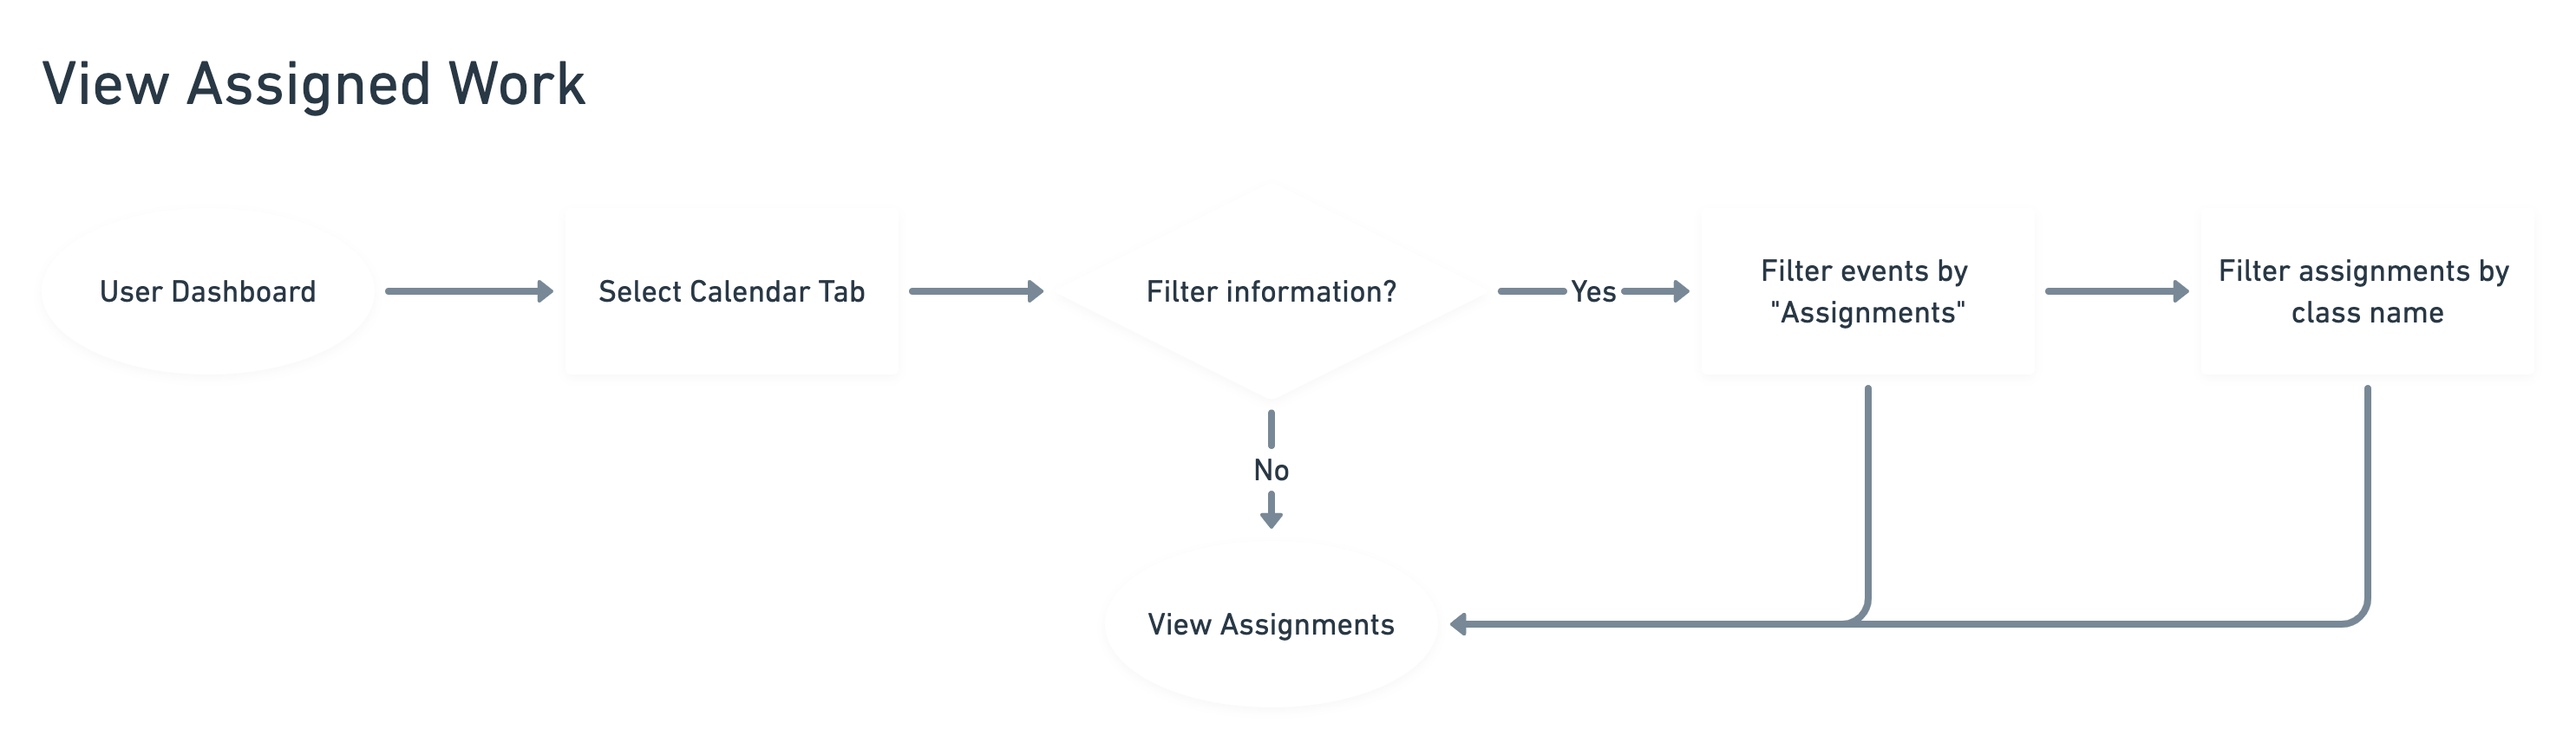
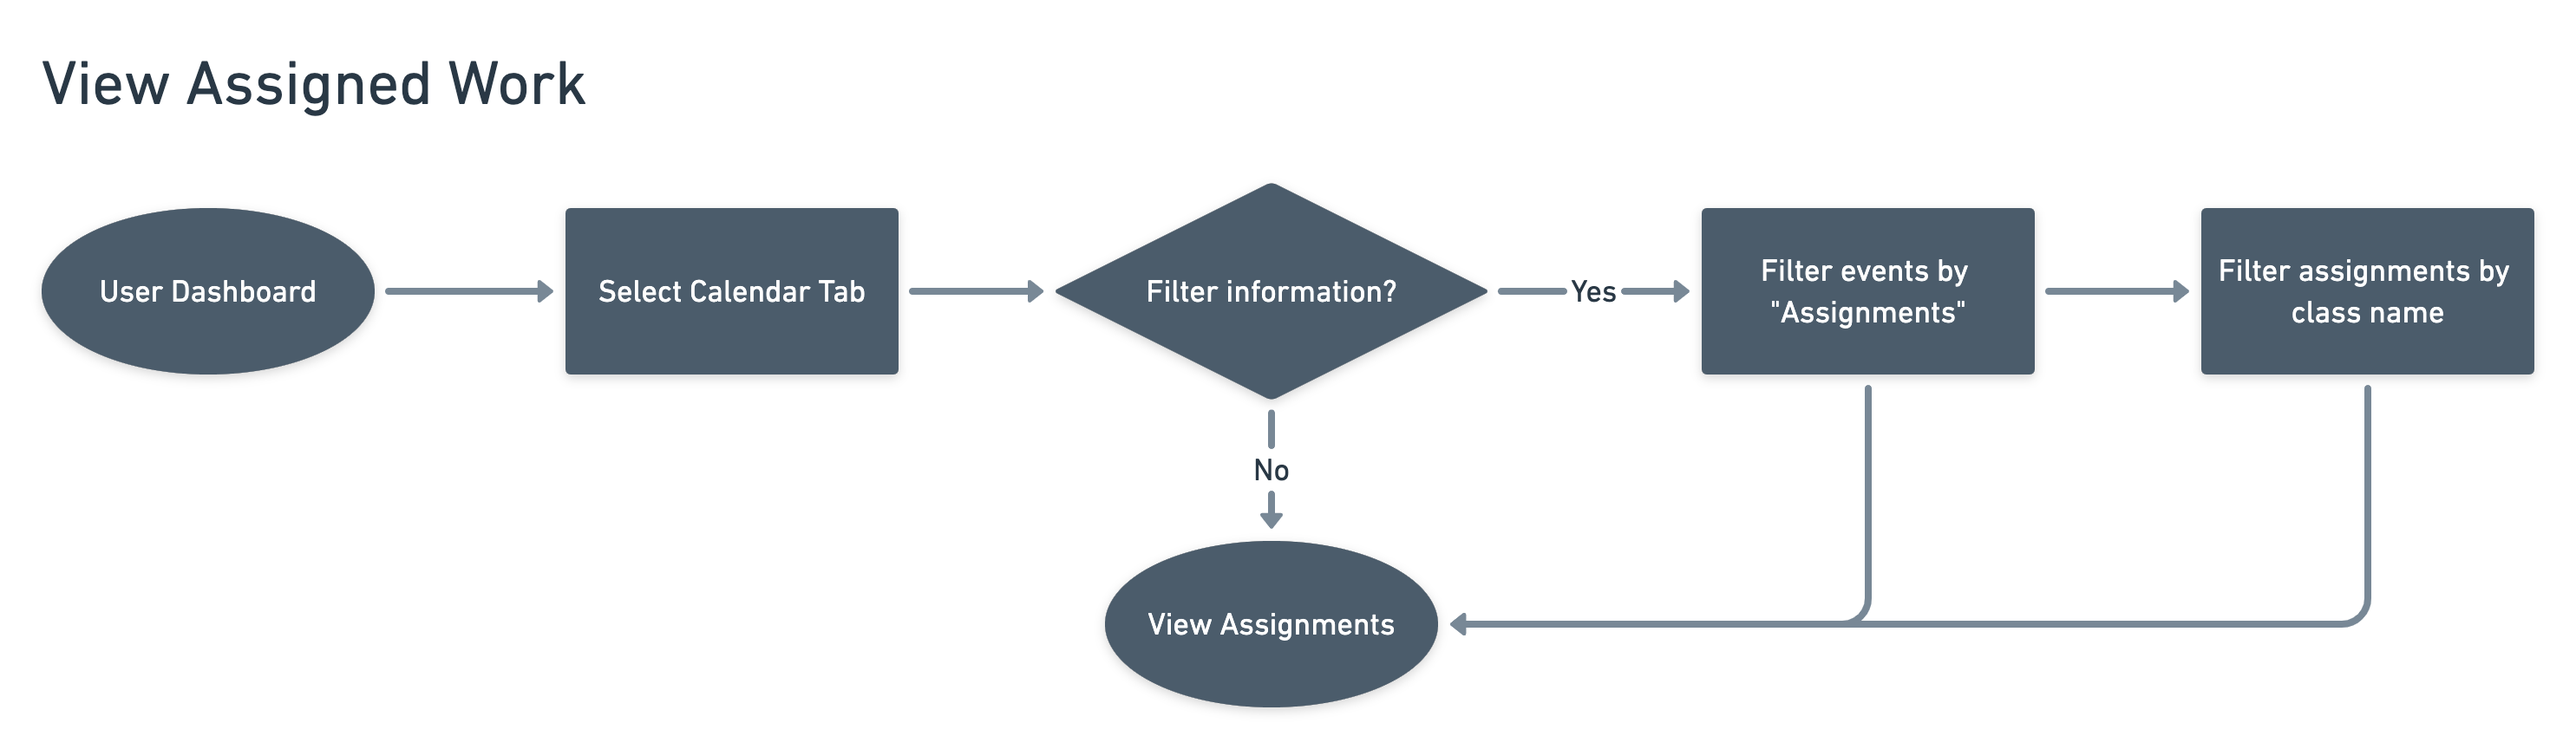
Fix Virt, some of NL CS images

diff --git a/Virtuoso.html b/Virtuoso.html
@@ -202,16 +202,17 @@
                   </tr>
                </table>
                <p>To help sort my stories, I focused on addressing the frustrations I found in my research. I wanted to create a structured learning environment where students and teachers could interact with each other. I took my high priority stories and mapped out the process behind them.</p>
-               <div class="dark-bg"><img src="../images/virtuoso/VAWflow.png" class="project-images" alt="User Flow for viewing assigned work"></div>
+               <img src="../images/virtuoso/VAWflow.png" class="project-images" alt="User Flow for viewing assigned work">
                <div>
                  <a class="content-btn" href="https://drive.google.com/file/d/1u072PD5H-FkkrTkmdskQWZtbiXFf8xEL/view?usp=sharing" target="_blank">
                     <p>View User Flows</p>
                  </a>
                </div>
             </div>
-            <div class="section-paragraph text-box">
+            <div class="section-paragraph">
+              <img src="../images/virtuoso/Wireframes Display.png" class="project-images-full" alt="Desktop and Mobile Wireframes">
+              <div class="text-box">
                <h5 class="paragraph-title">A first look</h5>
-               <div class="dark-bg"><img src="../images/virtuoso/Wireframes Display.png" class="project-images" alt="Desktop and Mobile Wireframes"></div>
                <ul class="cs-list">
                  <li>
                    <span class="list-icon"><i class="fas fa-circle"></i></span>
@@ -239,6 +240,7 @@
                     <p>View Mobile Wireframes</p>
                  </a>
                </div>
+             </div>
             </div>
          </section>
          <!-- BRANDING -->
@@ -247,8 +249,8 @@
          <section class="section-padding">
             <h2 class="text-box title-spacing">branding.</h2>
             <div class="section-paragraph text-box">
+              <img src="images/virtuoso/VirtLogoC.png" class="project-images" alt="Finished Virtuoso logo">
              <h5 class="paragraph-title">Logo</h5>
-             <div class="dark-bg"><img src="images/virtuoso/VirtLogoC.png" class="project-images" alt="Finished Virtuoso logo"></div>
              <ul class="cs-list">
                <li>
                  <span class="list-icon"><i class="fas fa-circle"></i></span>
@@ -268,9 +270,10 @@
                </li>
              </ul>
             </div>
-            <div class="section-paragraph text-box">
+            <div class="section-paragraph">
+              <img src="images/virtuoso/CAP CT Guide.png" class="project-images-full" alt="Color and Type branding">
+              <div class="section-paragraph text-box">
               <h5 class="paragraph-title">Color and Typography</h5>
-              <div class="dark-bg"><img src="images/virtuoso/CAP CT Guide.png" class="project-images" alt="Color and Type branding"></div>
               <ul class="cs-list">
                 <li>
                   <span class="list-icon"><i class="fas fa-circle"></i></span>
@@ -296,25 +299,28 @@
                    </a>
                 </div>
               </div>
+              </div>
             </div>
-            <div class="section-paragraph text-box">
-              <h5 class="paragraph-title">Mockups + Branding</h5>
-              <div class="dark-bg"><img src="images/virtuoso/Early Hi-Fi Mockups.png" class="project-images" alt="Early Hi-Fi Mockups"></div>
-              <ul class="cs-list">
-                <li>
-                  <span class="list-icon"><i class="fas fa-circle"></i></span>
-                  <p>This design is meant to look engaging and fun, as well as have intuitive organization that children and teachers could navigate with ease. I wanted to address the needs of all of my users, from young children to adults.</p>
-                </li>
-                <li>
-                  <span class="list-icon"><i class="fas fa-circle"></i></span>
-                  <p>Teachers are able to customize their classroom pages and cards to appeal to their students.</p>
-                </li>
-                <li>
-                  <span class="list-icon"><i class="fas fa-circle"></i></span>
-                  <p>I used color to attract users eyes to my most important processes, which I outlined my user stories.</p>
-                </li>
-              </ul>
-            </div>
+            <div class="section-paragraph">
+              <img src="images/virtuoso/Early Hi-Fi Mockups.png" class="project-images-full" alt="Early Hi-Fi Mockups">
+              <div class="section-paragraph text-box">
+                <h5 class="paragraph-title">Mockups + Branding</h5>
+                <ul class="cs-list">
+                  <li>
+                    <span class="list-icon"><i class="fas fa-circle"></i></span>
+                    <p>This design is meant to look engaging and fun, as well as have intuitive organization that children and teachers could navigate with ease. I wanted to address the needs of all of my users, from young children to adults.</p>
+                  </li>
+                  <li>
+                    <span class="list-icon"><i class="fas fa-circle"></i></span>
+                    <p>Teachers are able to customize their classroom pages and cards to appeal to their students.</p>
+                  </li>
+                  <li>
+                    <span class="list-icon"><i class="fas fa-circle"></i></span>
+                    <p>I used color to attract users eyes to my most important processes, which I outlined my user stories.</p>
+                  </li>
+                </ul>
+                </div>
+              </div>
          </section>
          <!-- TESTING -->
          <div id="testing" class="sticky-destination"></div>
@@ -380,7 +386,7 @@
          </section>
          <!-- FURTHER REFINEMENTS -->
          <section class="section-padding">
-           <h2 class="text-box title-spacing">further refinements.</h2>
+           <h2 class="text-box title-spacing">next steps.</h2>
             <div class="section-paragraph text-box">
                <p>I revisited this project and added microinteractions to give my design more life. To do this, I used Figma's "Smart Animate" function. There are a few advantages to including microinteractions in an app. Some apps use them to save time for their users, while others use them to show their branding. I decided to use microinteractions to communicate information and engage users.</p>
                <div class="dark-bg"><img src="images/virtuoso/Virtuoso_MI.gif" class="project-images" alt="GIF of microinteractions in Virtuoso"></div>
@@ -410,8 +416,7 @@
                <p>I feel confident that Virtuoso could open up possibilities for teachers and students who are currently participating in remote learning. I saw how important user testing is, as it gives me a way to view my project through fresh eyes.</p>
                <br>
                <p>In future projects, I will use user testing earlier in the process, starting with wireframes. This project has reminded me that the design process is not a linear journey, it includes circling back to different stages of research and testing throughout. I am happy with how this turned out and eager to start on my next project!</p>
-             </div>
-             <img src="images/virtuoso/VirtMbookMU.png" class="project-images" alt="Desktop Mockup of Virtuoso">
+           </div>
          </section>
       </main>
       <!-- FOOTER -->

diff --git a/Newlife.html b/Newlife.html
@@ -142,14 +142,16 @@
             </div>
             <div class="section-paragraph text-box">
                <h5 class="paragraph-title">Site Map</h5>
-               <div class="dark-bg"><img src="../images/Newlife/NL-sitemap.png" class="project-images" alt="Newlife Site Map - Home, Shop, About, Cart"></div>
+               <img src="../images/Newlife/NL-sitemap.png" class="project-images" alt="Newlife Site Map - Home, Shop, About, Cart">
                <p>Since part of this business's appeal is buying custom handmade items, I decided we needed 2 about pages talking about Michael's story and how he makes his products. This would help visitors form a connection with Michael and gain trust in his products. I thought this would help encourage interested visitors to make a purchase. I saw this tactic used by Mollyjogger in my competitive analysis.</p>
             </div>
             <div class="section-paragraph text-box">
                <h5 class="paragraph-title">Wireframes</h5>
                <p>I ran my wireframes by Michael to get his first thoughts about the design. I made multiple versions of some sections, like the Home and Product pages. I wanted Michael to have a few options to choose from. Since this business is personal to him, I wanted to make sure he is involved in creating the design direction.</p>
-               <div class="dark-bg"><img src="../images/Newlife/NL-Wireframes.png" class="project-images" alt="Newlife Wireframes - Desktop and Mobile"></div>
             </div>
+            <div class="section-paragraph">
+            <img src="../images/Newlife/NL-Wireframes.png" class="project-images-full" alt="Newlife Wireframes - Desktop and Mobile">
+          </div>
          </section>
          <!-- BRANDING -->
          <div id="branding" class="sticky-destination"></div>
@@ -181,10 +183,10 @@
                <p>I was inspired by the quality of images I saw on Mahabis’ site from my competitive analysis. For an online store, high-quality images are essential to convince visitors to make a purchase. In order to create our own high-quality images, I had to get creative. I put a wallet on a sheet of printer paper, set up my lighting stands, and started shooting. You can see my setup below.</p>
                <br>
                <p>Camera + Settings: Nikon D3400 with Sigma 18-35mm F1.8 DC lens, 1/80, f/10, ISO 1600.</p>
-               <div class="light-bg"><img src="images/Newlife/NL-Setup.jpg" class="project-images" alt="My basic lighting and backdrop setup"></div>
+               <div class="dark-bg"><img src="images/Newlife/NL-Setup.jpg" class="project-images" alt="My basic lighting and backdrop setup"></div>
                <p>While shooting, I thought about what customers might want to see before they buy a product. For example, I wanted one picture of the front (closed), one of the inside (open), and one showing the mouth of the wallet. Here are 3 pre-edited pictures I took of the same wallet, showing customers everything they might want to see before buying.</p>
-               <div class="dark-bg">
-                 <img src="images/Newlife/NL-OGwallets.png" class="project-images" alt="The 3 wallets original photos - white background, but washed out colors">
+               <div class="PS-section">
+                 <div class="dark-bg"><img src="images/Newlife/NL-OGwallets.png" class="project-images" alt="The 3 wallets original photos - white background, but washed out colors"></div>
                  <h5 class="cs-sub">A white background, but the wallets look washed out.</h5>
                </div>
             </div>

diff --git a/about.html b/about.html
@@ -132,13 +132,13 @@
             <div class="section-paragraph text-box">
                <p>While teaching English in South Korea, I learned a lot about communication. My students were amazing, and ranged from beginner-expert in English. Still, there were times when I was emphatically lecturing in front of a group of confused faces. During those times, I relied on this mantra: "When in doubt, draw it out." I learned a lot in Korea, but being able to clear up any misunderstanding was a skill I needed to develop quickly. This was the beginning of my interest in design, the universal language.</p>
                <div class="PS-section">
-                 <img src="/images/myface/KoreanDan.png" class="PS-image" alt="A picture of me in Hanbok">
+                <img src="/images/myface/KoreanDan.png" class="PS-image" alt="A picture of me in Hanbok">
                  <h5 class="PS-text">I do my best problem solving in my thinking cap.</h5>
                </div>
                <p>My favorite part about being a teacher was connecting with my students. I was always looking for new ways to excite them with English. To do this, I experimented with my curriculum, teaching style, and classroom management. I learned about what each of my students liked, and tailored lesson plans for each classroom. As a designer, not much has changed. I'm always looking for things to fix in products. I experiment with my process to find the best way to solve problems. I tailor each of my designs to address user needs. While my profession has changed, my passion has not. This is what makes me a great teacher and designer.</p>
             </div>
          </section>
-         <section class="section-padding">
+         <section class="section-padding cs-conc">
                <h2 class="title-spacing text-box">it began with a letter.</h2> <!-- Kingdom Hearts -->
             <div class="section-paragraph text-box">
                <p>Want to know more about me? Have a project you want to work on together? Dying to try out your new email signature?</p>

diff --git a/Adventure.html b/Adventure.html
@@ -220,7 +220,7 @@
             <div class="section-paragraph">
                <h4 class="paragraph-title text-box">Wireframes</h4>
                <p class="text-box">I created some wireframes and put them in front of new and experienced players to get their feedback.</p>
-               <img src="../images/dnd/dnd_WF.png" class="project-images" alt="Array of wireframes, showing the beginning idea of the app">
+               <img src="../images/dnd/dnd_WF.png" class="project-images-full" alt="Array of wireframes, showing the beginning idea of the app">
              </div>
              <div class="section-paragraph text-box">
                <h4>User Feedback</h4>
@@ -275,7 +275,7 @@
             <h2 class="text-box title-spacing">design.</h2>
             <div class="section-paragraph">
                <h4 class="paragraph-title text-box">Character Creation Process</h4>
-               <img src="../images/dnd/CharCreation.png" class="project-images" alt="Mockups of the app's Character Creation Process">
+               <img src="../images/dnd/CharCreation.png" class="project-images-full" alt="Mockups of the app's Character Creation Process">
              </div>
              <div class="section-paragraph text-box">
                <ul class="cs-list-text">
@@ -297,7 +297,7 @@
              </div>
              <div class="section-paragraph">
                 <h4 class="paragraph-title text-box">Digital Character Sheet</h4>
-                <img src="../images/dnd/DnDCharSheet.png" class="project-images" alt="Mockups of the app's Digital Character Sheet">
+                <img src="../images/dnd/DnDCharSheet.png" class="project-images-full" alt="Mockups of the app's Digital Character Sheet">
               </div>
               <div class="section-paragraph text-box">
                 <ul class="cs-list-text">

diff --git a/styles/main.css b/styles/main.css
@@ -512,11 +512,19 @@ section {
 
 .dark-bg {
   background-color: #141414;
-  border-radius: 5px;
-  color: #EFEFEF;
-  padding: 2rem 0;
+  border-radius: 10px;
+  padding: 0;
   margin: 2rem 0;
   max-width: 100vw;
+  box-shadow: 0px 0px 12px rgba(20, 20, 20, 0.35);
+}
+
+.dark-bg-full {
+  background-color: #141414;
+  color: #EFEFEF;
+  padding: 2rem 0;
+  margin: 2rem auto;
+  width: 100vw;
   box-shadow: 0px 0px 12px rgba(20, 20, 20, 0.35);
 }
 
@@ -931,13 +939,18 @@ span {
   height: 100%;
   justify-content: center;
   margin: 3rem auto;
+  width: 100%;
+}
+
+.project-images-full {
   width: 100vw;
 }
 
 .cs-sub {
+  color: inherit;
   text-align: center;
   font-size: 1.6rem;
-  margin-top: 3rem;
+  margin-bottom: 2rem;
 }
 
 .bot-margin {
@@ -1137,12 +1150,19 @@ span {
 .PS-text {
   text-align: center;
   font-size: 1.6rem;
-  margin-top: 2rem;
+  margin-top: 1rem;
 }
 
 .PS-image {
   width: 100%;
   max-width: inherit;
+}
+
+.cs-sub {
+  color: inherit;
+  text-align: center;
+  font-size: 1.6rem;
+  margin-bottom: 2rem;
 }
 
 /** BOTTOM LINKS **/
